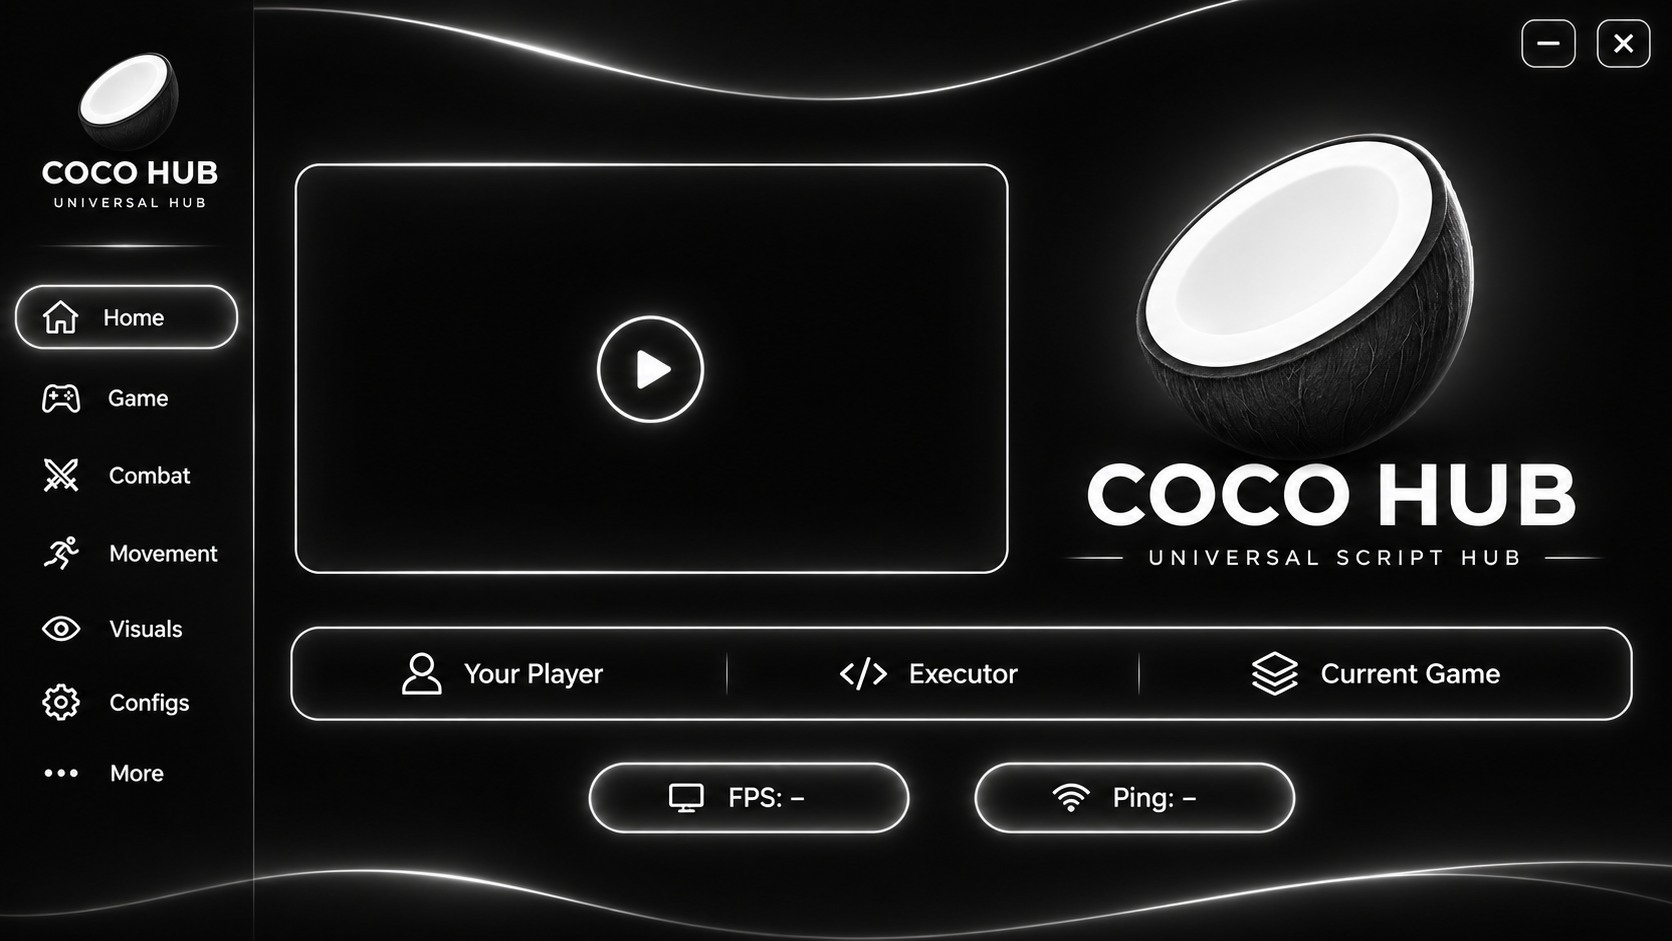
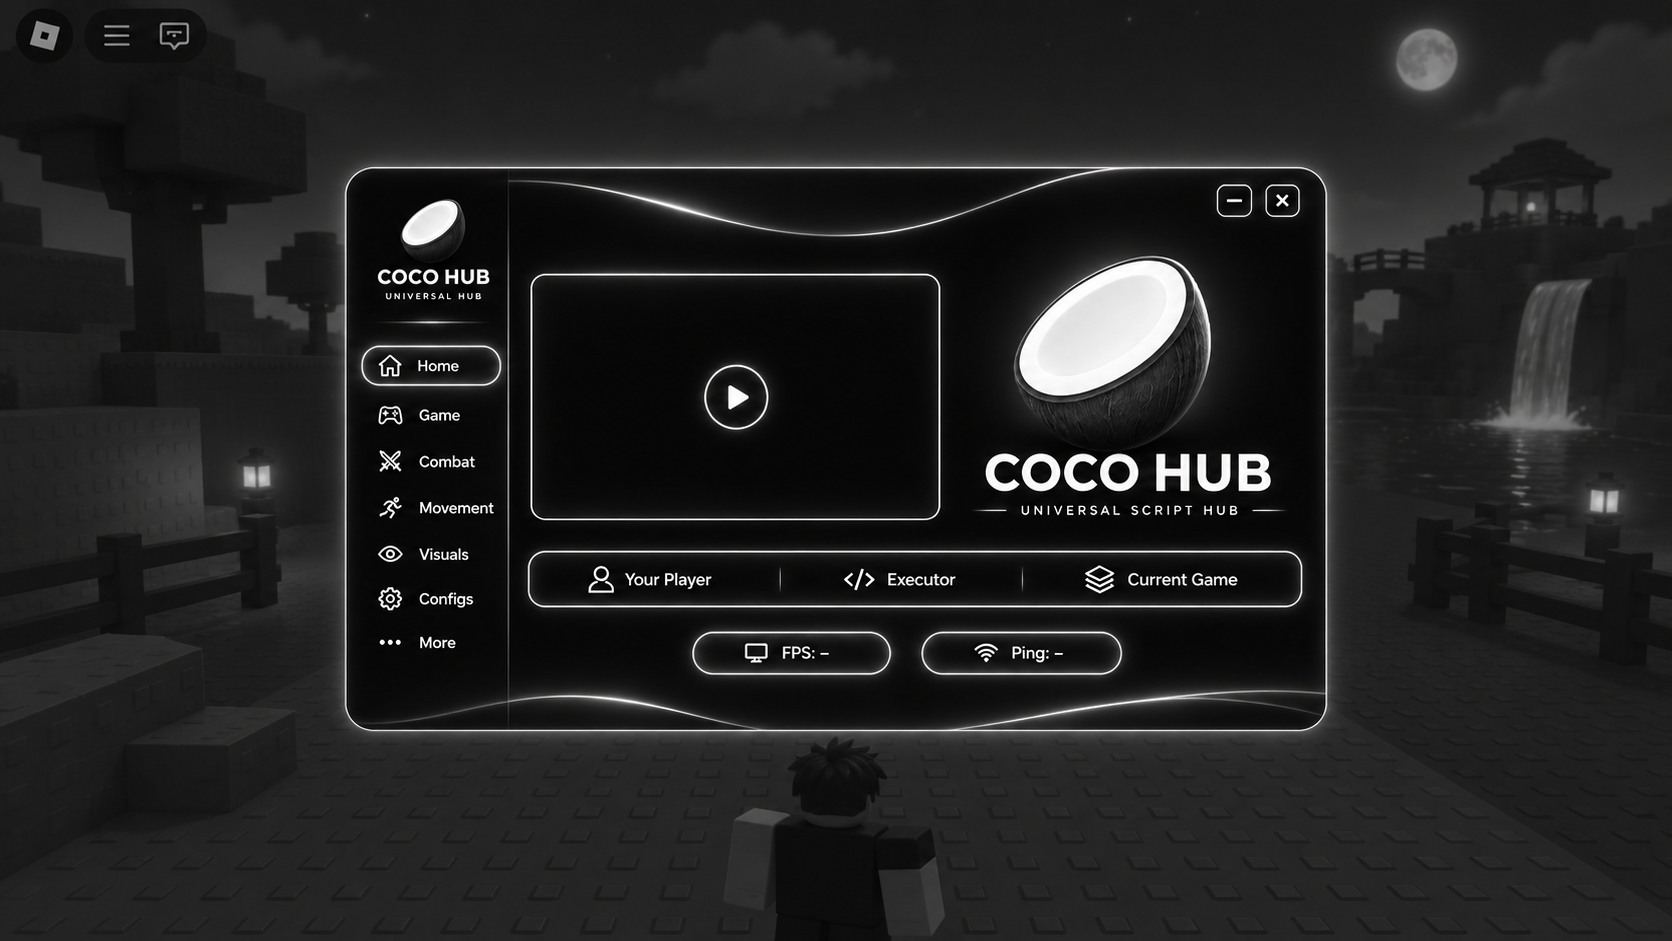
Make Coco Hub compact and clear default sections

diff --git a/README.md b/README.md
@@ -6,7 +6,7 @@ Paste this into Delta:
 loadstring(game:HttpGet("https://raw.githubusercontent.com/brookbrookcms-cmyk/Cookie-Hub/main/PotassiumChristmas.lua"))()
 ```
 
-The Christmas loader opens a monochrome Coco Hub UI. Home follows the supplied reference with a slim navigation rail, a coconut logo, video preview, live player and game details, and FPS/Ping displays. Game, Combat, Movement, Visuals, Configs, and More hold future modules. The video preview is a placeholder until a Roblox video asset ID is supplied; it does not stream the local MP4.
+The Christmas loader opens a compact, centered monochrome Coco Hub window. Home has the navigation rail, coconut logo, video preview, live player and game details, and FPS/Ping displays. Game, Combat, Movement, Visuals, Configs, and More are blank until modules are added. The video preview is a placeholder until a Roblox video asset ID is supplied; it does not stream the local MP4.
 
 Once the hub opens, modules can register a card:
 
